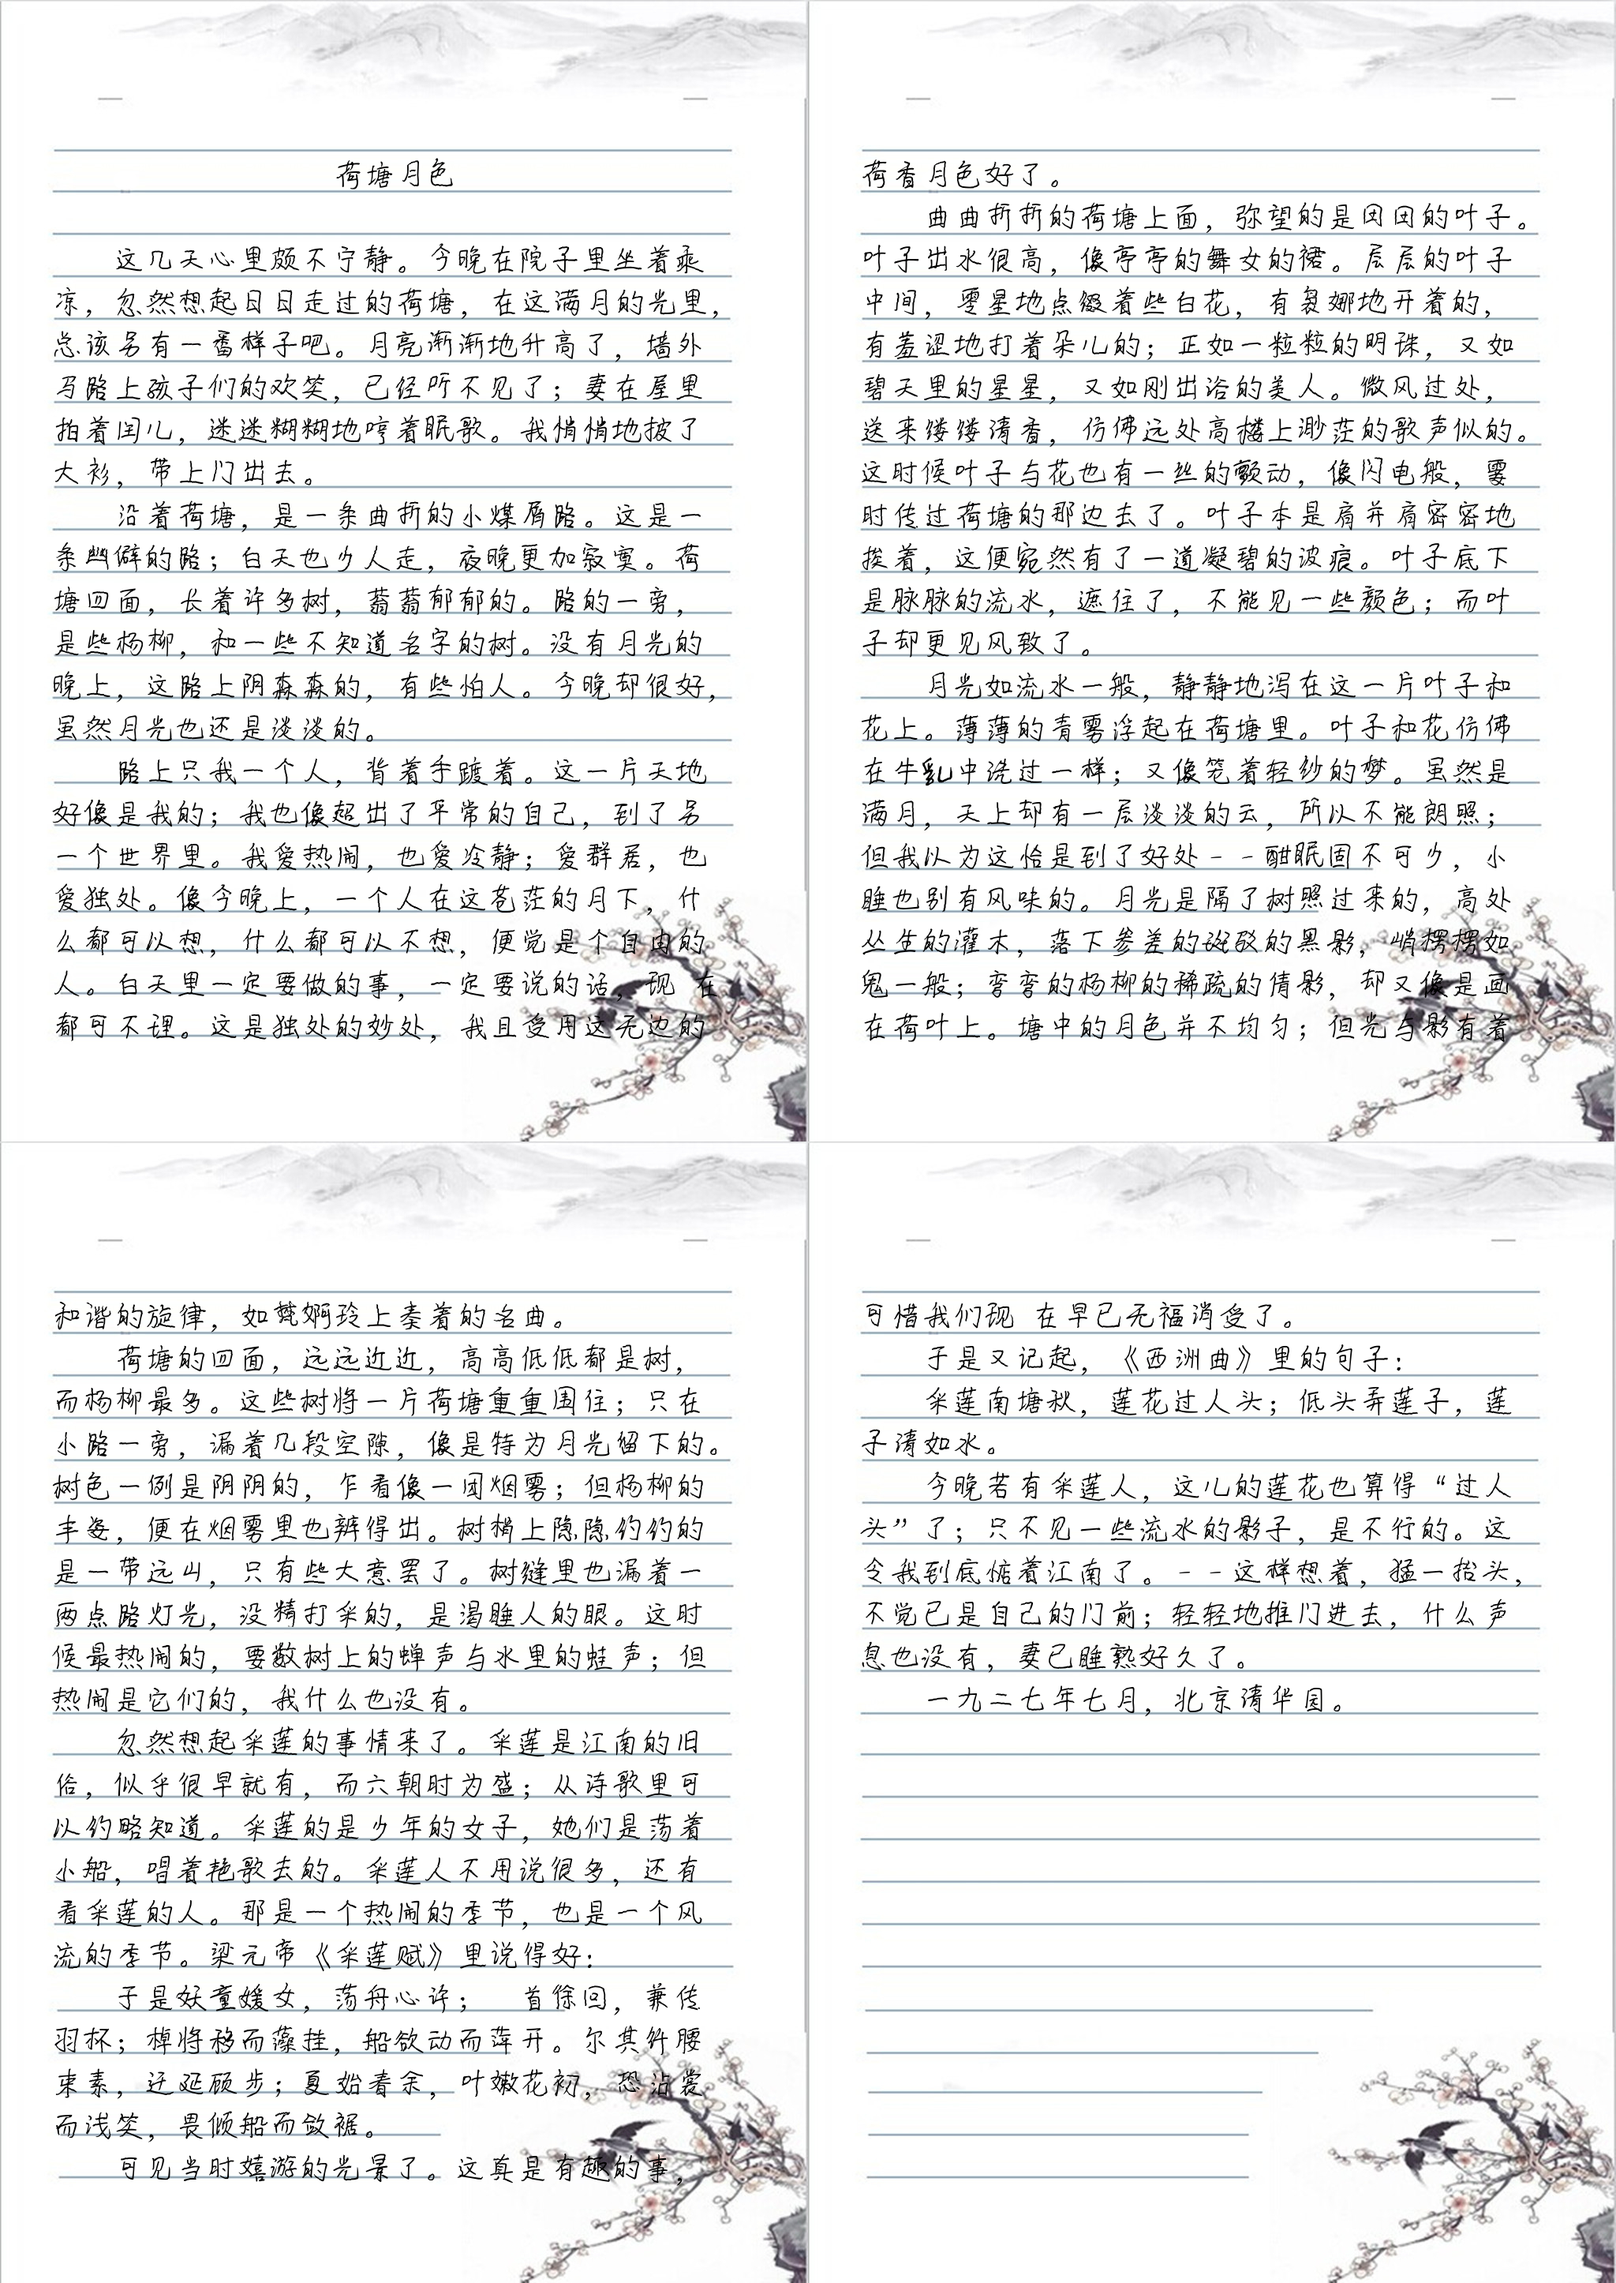
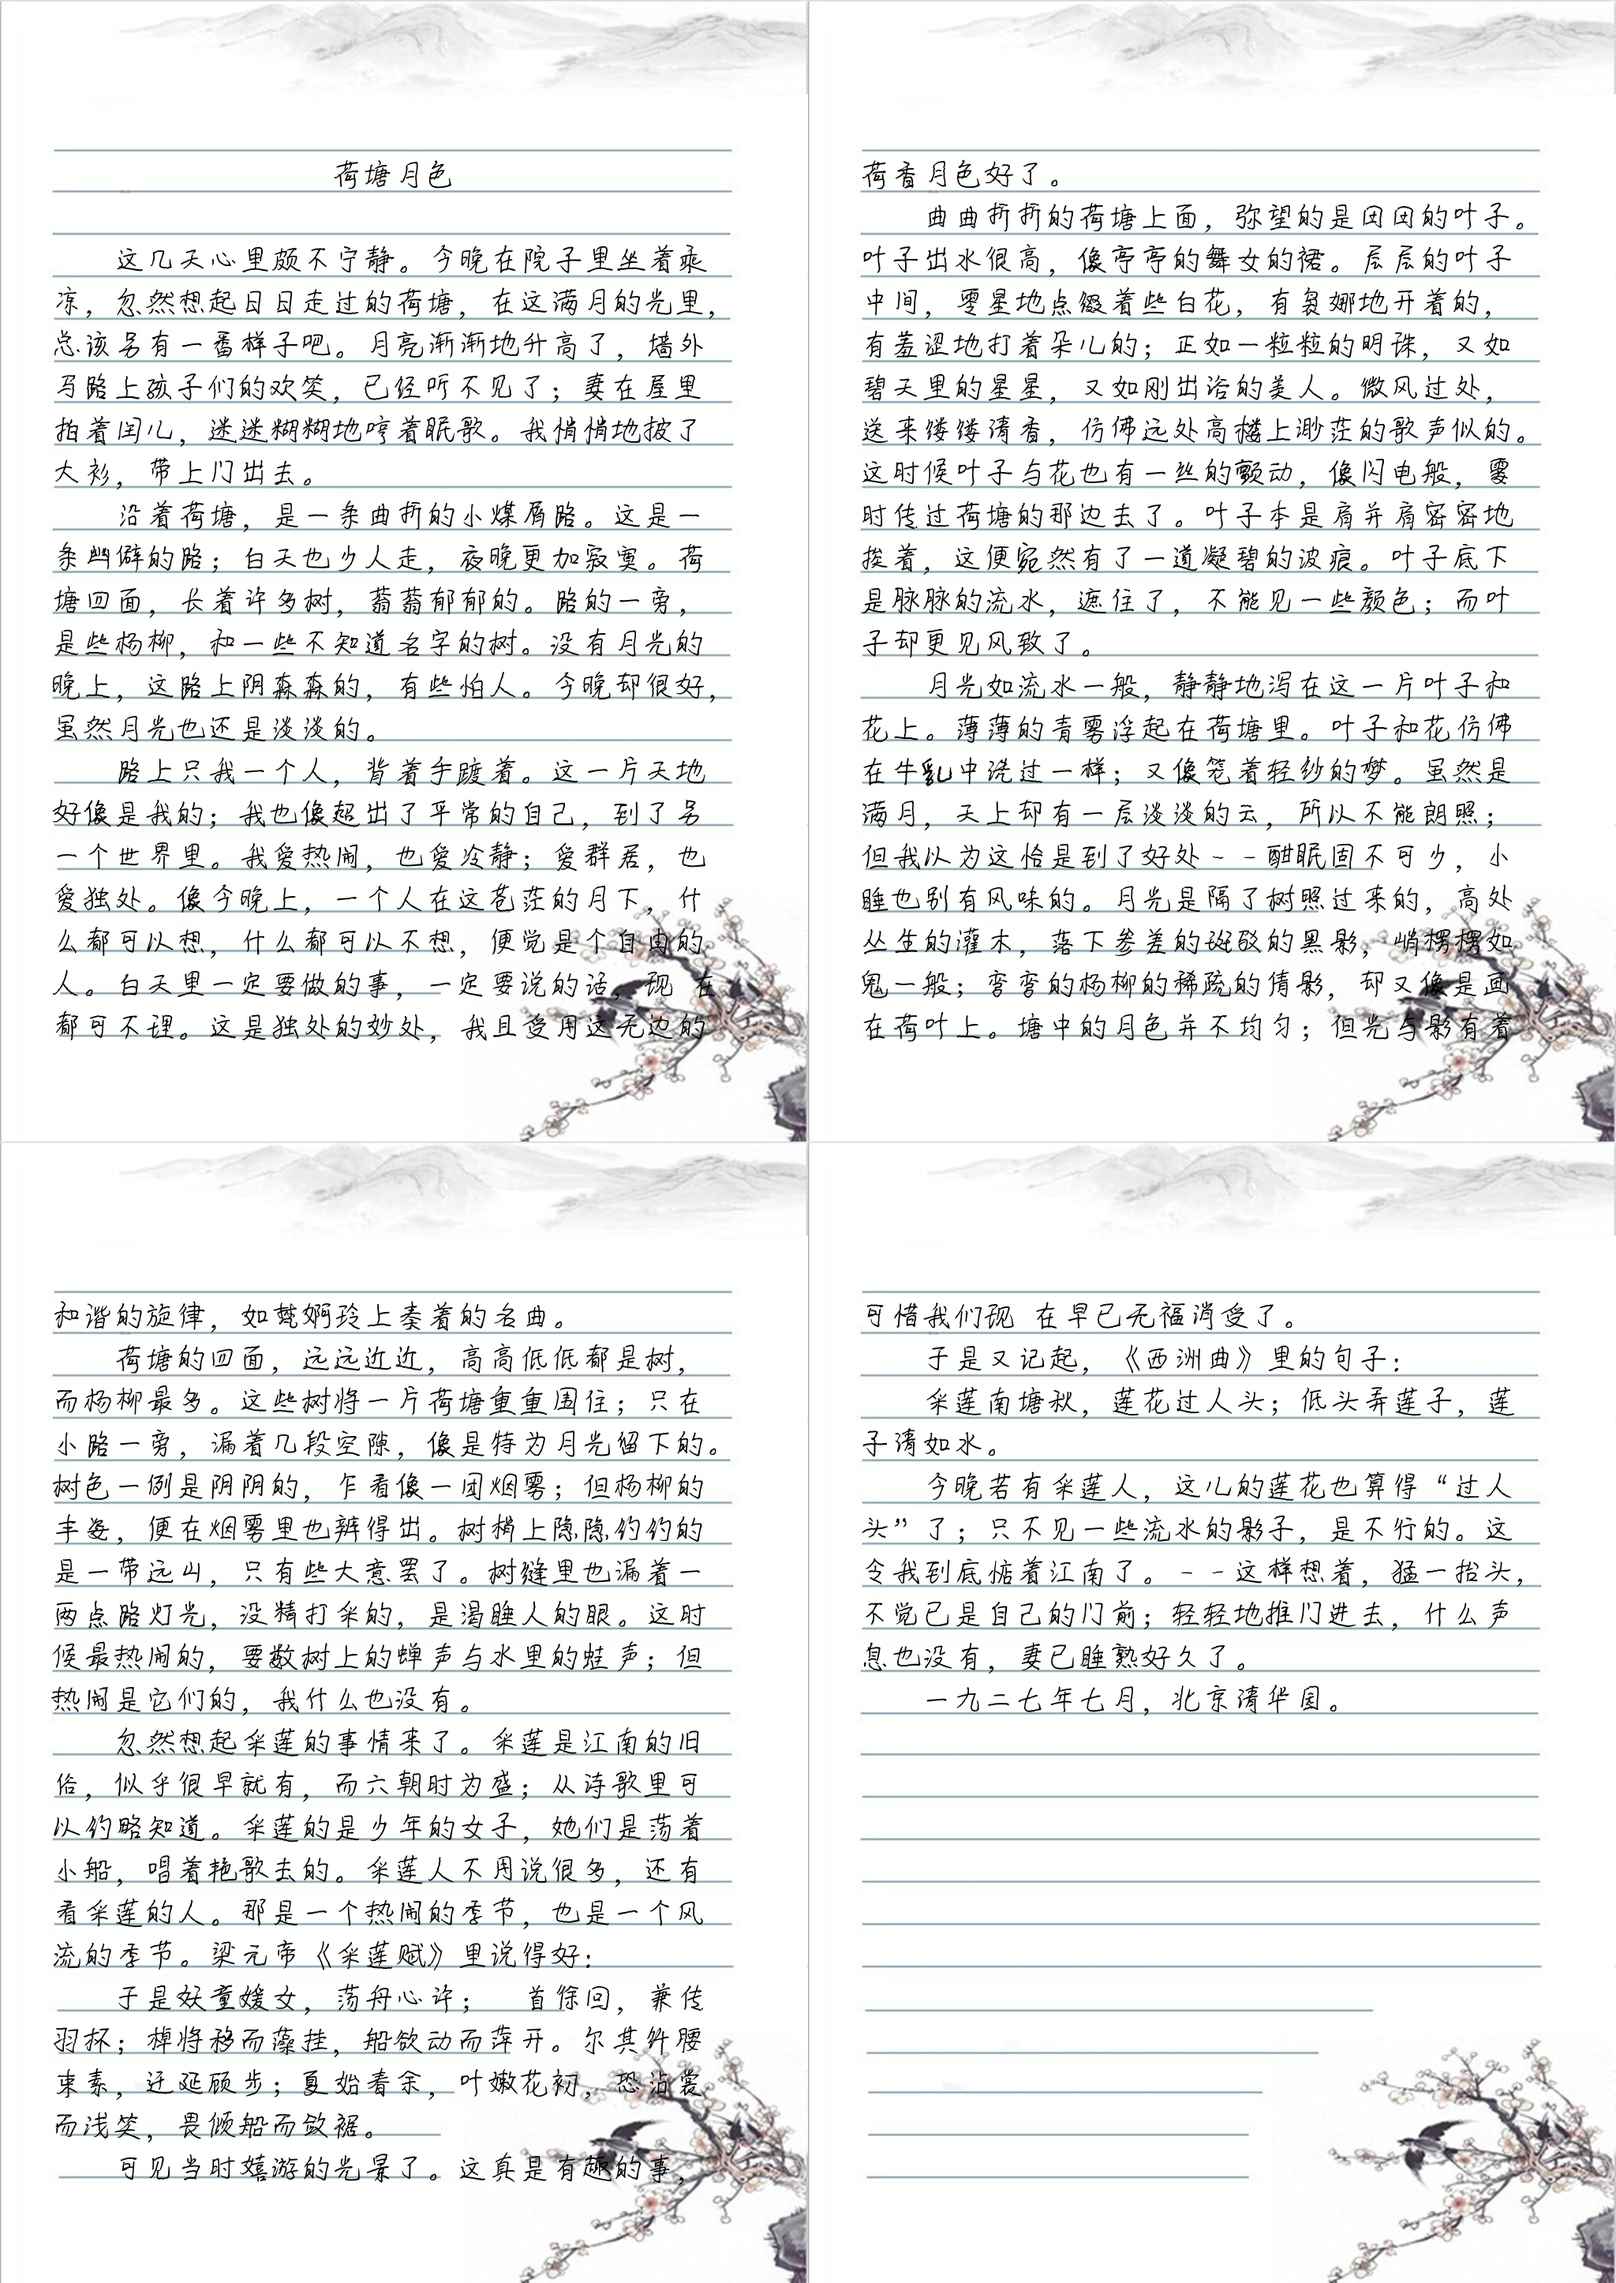
优化背景图letter.jpg

diff --git a/examples/article.py b/examples/article.py
@@ -23,7 +23,7 @@ TEXT = """                  荷塘月色
 
 def main():
     template = dict(
-        background=Image.open("./pictures/letter.jpg"),
+        background=Image.open("./pictures/letter.png"),
         box=(65, 203, 926, 1325),
         font=ImageFont.truetype("./fonts/Bo Le Locust Tree Handwriting Pen Chinese Font-Simplified Chinese Fonts.ttf"),
         font_size=40,
